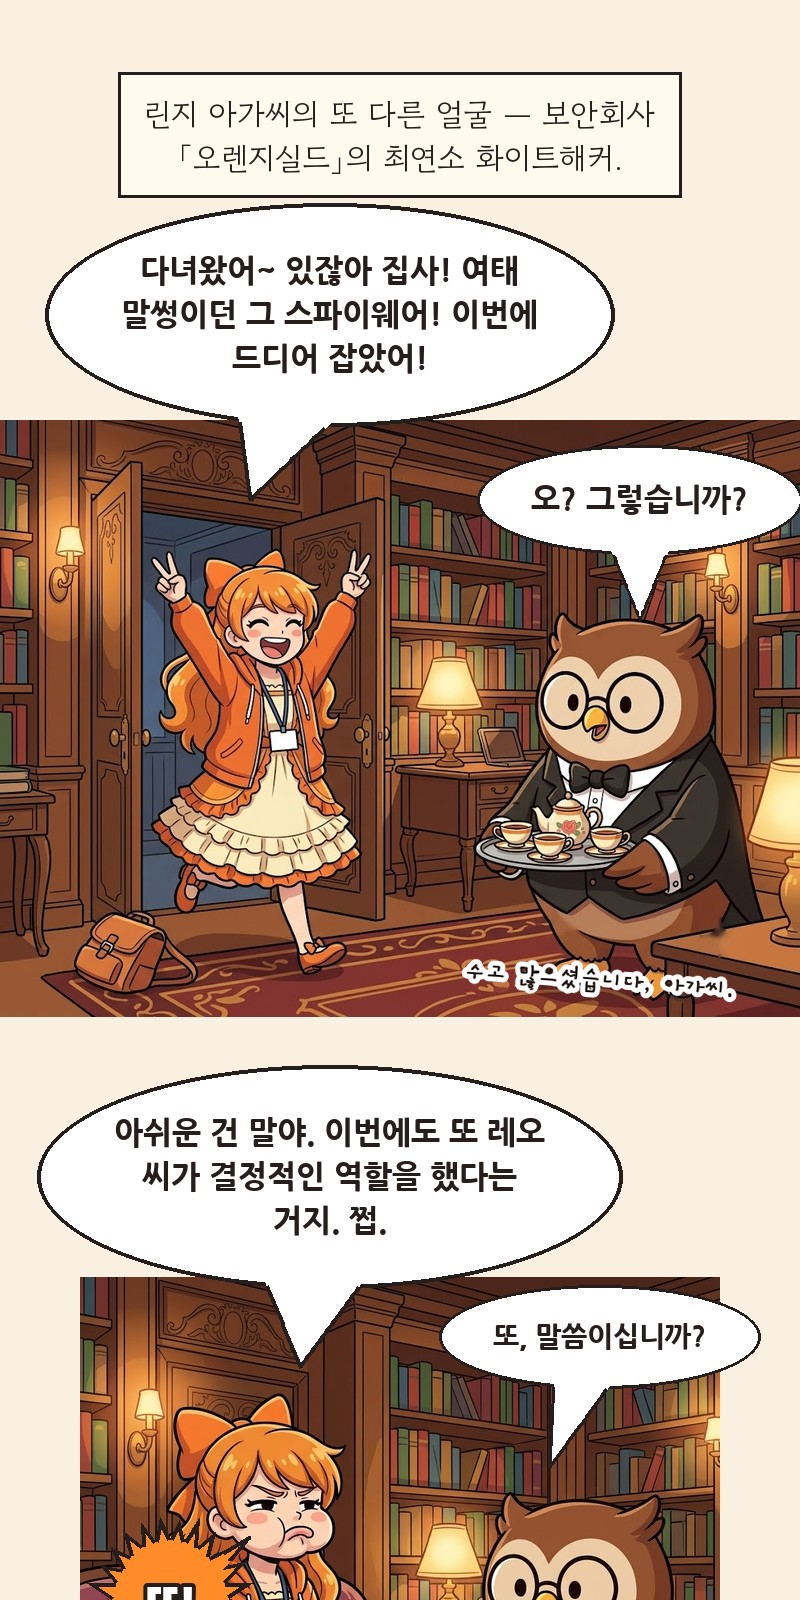
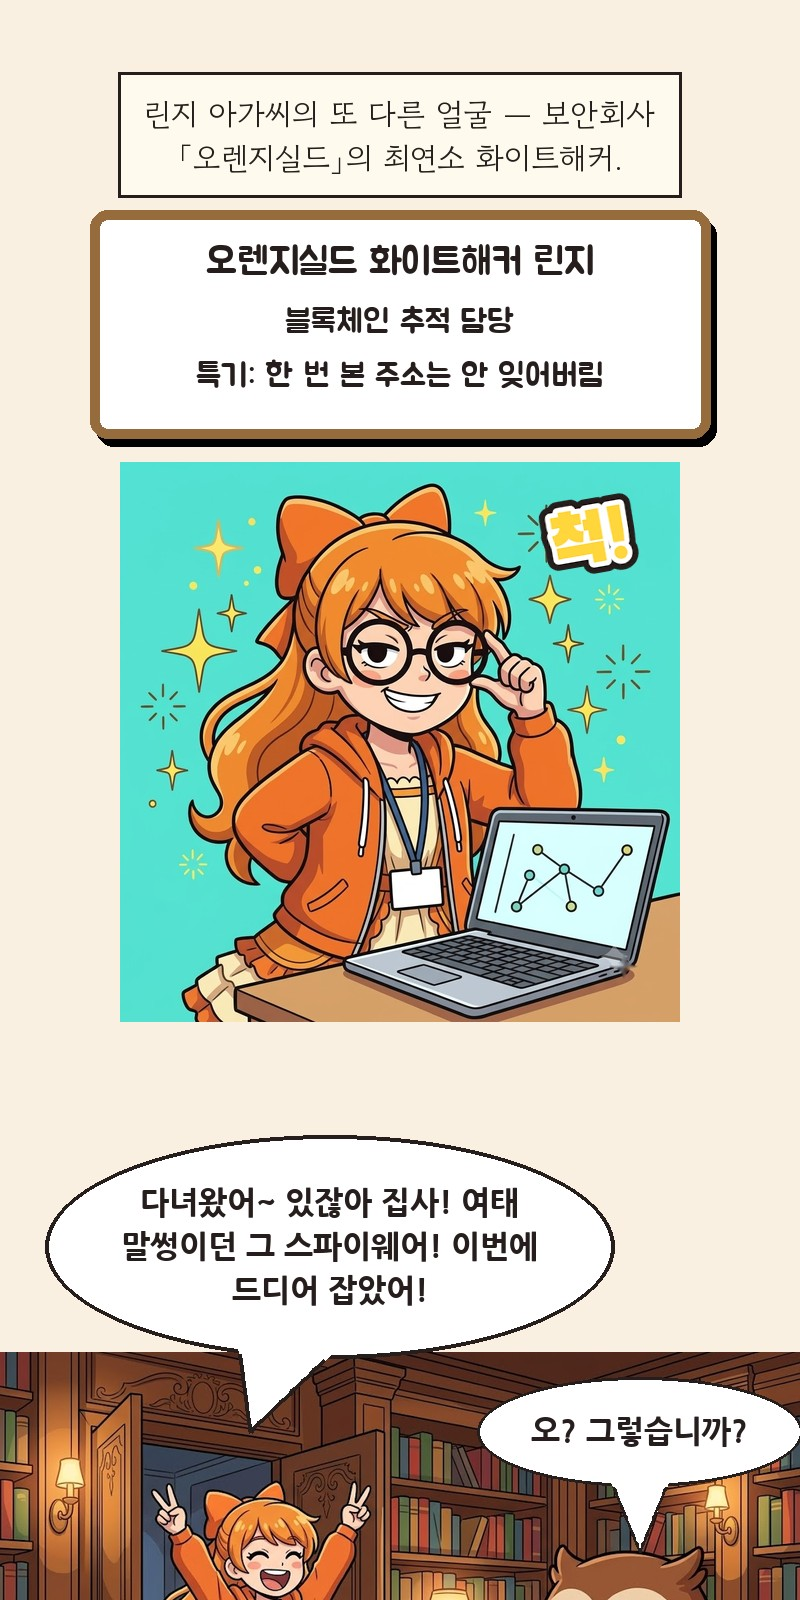
웹툰 5화: 화이트해커 소개 컷을 맨 앞으로, 등록비 안내 위치 조정, '아야 발가락' 삭제

diff --git a/BTOON5.html b/BTOON5.html
@@ -55,7 +55,7 @@
     <img src="btoon5/p14.jpg" alt="5화 14" loading="lazy" width="800" height="1600">
     <img src="btoon5/p15.jpg" alt="5화 15" loading="lazy" width="800" height="1600">
     <img src="btoon5/p16.jpg" alt="5화 16" loading="lazy" width="800" height="1600">
-    <img src="btoon5/p17.jpg" alt="5화 17" loading="lazy" width="800" height="374">
+    <img src="btoon5/p17.jpg" alt="5화 17" loading="lazy" width="800" height="354">
 </div>
 
 <div class="after">
